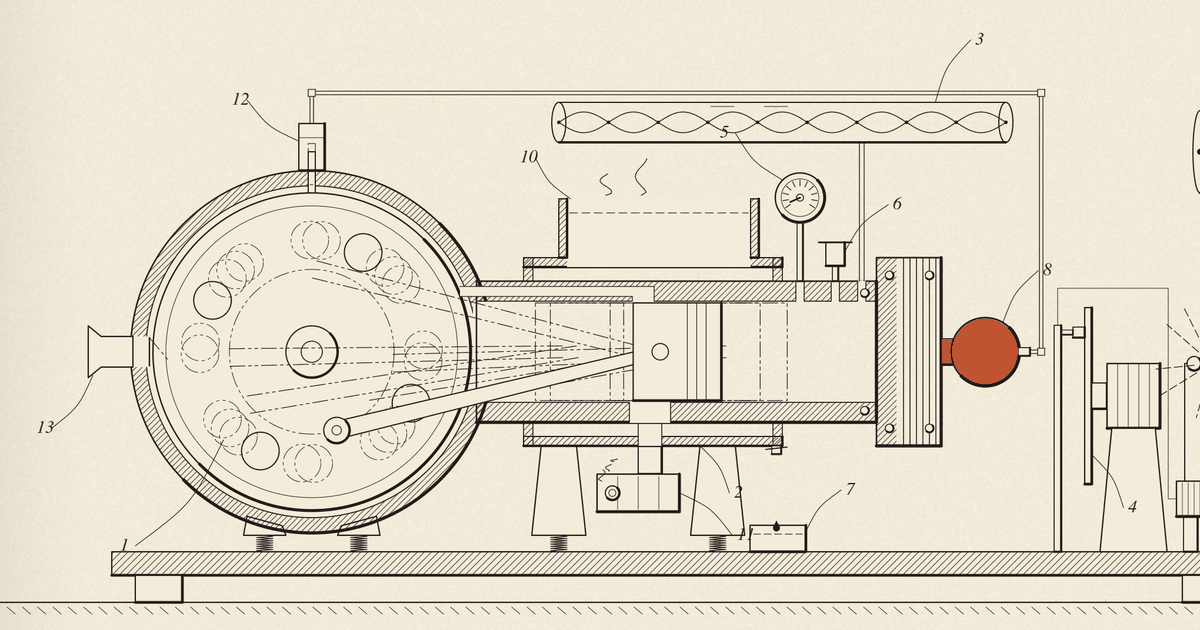
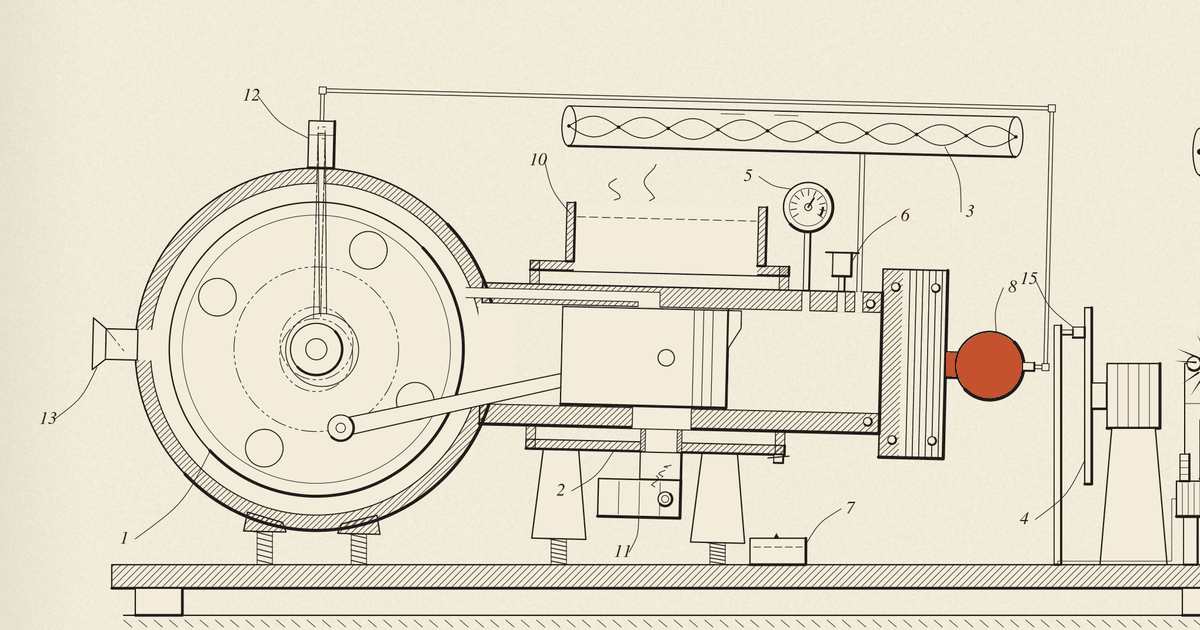
Opustek: v9 images and source zip; thump lead and gated-thump fix; exploded-view credit corrected

diff --git a/src/opustek/index.html b/src/opustek/index.html
@@ -144,7 +144,7 @@ th { font-weight: 400; font-variant: small-caps; letter-spacing: .05em; border-t
 <ul class="get">
   <li class="yt-link" hidden><a href="">The film <small>YouTube</small></a></li>
   <li><a href="engine-learning-to-sing.mp3" download>The track <small>MP3, 3:14, 4.7&nbsp;MB</small></a></li>
-  <li><a href="engine-learning-to-sing-src.zip" download>The source <small>ZIP, 48&nbsp;KB</small></a></li>
+  <li><a href="engine-learning-to-sing-src.zip" download>The source <small>ZIP, 56&nbsp;KB</small></a></li>
   <li><a href="sheet.jpg">The drawing <small>JPG, 3200&nbsp;px</small></a></li>
 </ul>
 <script>
@@ -344,15 +344,15 @@ requestAnimationFrame(draw);
 
 <h2>The film</h2>
 
-<p>Of the looks proposed for a video, Mark chose an 1890s engineering drawing: dark ink on aged paper, section hatching, numbered parts. The exploded view at the end was his idea. It is drawn frame by frame with pycairo, and every motion comes from the same score as the sound. Overnight, three reviewer agents (a technical draftsman, an engineer-physicist and a music-video editor) went over a first version in two rounds. The engineer found the chopper's disc drawn half a sector out of phase with the sound; Claude's own check had passed it, because it compared the drawn beam with the audio and never looked at the blade. They also caught a head hotter than molten cast iron, a drop falling backwards in time, and plumbing that could not drain. In the morning Mark spotted that the connecting rod stretched when the engine came apart, and then asked for more: a real engine making that sound would be running at the drone's own speed, and the music's gate could be a stroboscope.</p>
+<p>Of the looks proposed for a video, Mark chose an 1890s engineering drawing: dark ink on aged paper, section hatching, numbered parts. The exploded view at the end grew from an aside of his: my mention of exploded-view drawings reminded him of a fan-made music video animated from them. It is drawn frame by frame with pycairo, and every motion comes from the same score as the sound. Overnight, three reviewer agents (a technical draftsman, an engineer-physicist and a music-video editor) went over a first version in two rounds. The engineer found the chopper's disc drawn half a sector out of phase with the sound; Claude's own check had passed it, because it compared the drawn beam with the audio and never looked at the blade. They also caught a head hotter than molten cast iron, a drop falling backwards in time, and plumbing that could not drain. In the morning Mark spotted that the connecting rod stretched when the engine came apart, and then asked for more: a real engine making that sound would be running at the drone's own speed, and the music's gate could be a stroboscope.</p>
 
-<p>So the engine became a two-stroke whose crank turns at the note, a blur to any camera, drawn as five phantom exposures to a frame; and each opening of the gate fires a spark that freezes it, which Mark then asked to strike in at full strength and fade, with the phantoms coming back as it goes, mixed as light mixes rather than as screen values. A second round of the three reviewers then found a piston too short to seal its own exhaust port, a coil that would have sparked on the wrong half of its cycle, a fuel cam that would have thrown its follower at 20,000&nbsp;g, numerals sitting on the wrong parts, and engine mounts that rocked visibly only when the engine started from rest; all fixed, and the piston's seal and the numerals' places now have checks of their own. A real strobe would flash the whole screen 8 to 16 times a second, which is a seizure risk (WCAG allows three flashes a second over a large area), so the freeze is drawn in ink, not light, and a check reads every frame of the film for flashing. Its first version counted the engine's rocking as flashing, until the check learned that lines moving across the paper are not an area changing brightness.</p>
+<p>So the engine became a two-stroke whose crank turns at the note, a blur to any camera, drawn as five phantom exposures to a frame; and each opening of the gate fires a spark that freezes it, which Mark then asked to strike in at full strength and fade, with the phantoms coming back as it goes, mixed as light mixes rather than as screen values. A second round of the three reviewers then found a piston too short to seal its own exhaust port, a coil that would have sparked on the wrong half of its cycle, a fuel cam that would have thrown its follower at 20,000&nbsp;g, numerals sitting on the wrong parts, and engine mounts that rocked visibly only when the engine started from rest; all fixed, and the piston's seal and the numerals' places now have checks of their own. A real strobe would flash the whole screen 8 to 16 times a second, which is a seizure risk (WCAG allows three flashes a second over a large area), so the freeze is drawn in ink, not light, and a check reads every frame of the film for flashing. Its first version counted the engine's rocking as flashing, until the check learned that lines moving across the paper are not an area changing brightness. Watching the result, Mark felt the freezes break the rocking's rhythm, though every check passed: the thumps had been scaled by the engine's sound after the gate, so in the strobe passages they all but stopped. They now follow the engine's drive, which the gate doesn't touch.</p>
 
 <table>
   <tr><th>Physics, done properly</th><th>Licence, taken knowingly</th></tr>
   <tr><td>A two-stroke fires once a turn, so its note is its speed: the crank follows the bass note, 46 to 123 turns a second (2,800–7,400&nbsp;rpm), with a light engine's lag, never faster than its torque allows (at most 350 turns a second, per second) and no harder down than it coasts.</td><td>Hot-bulb engines ran at hundreds of rpm, not thousands, and the glides would need a racing two-stroke's torque. Mean piston speed reaches 20.7&nbsp;m/s, a racing figure. On fast down-glides the crank's speed falls behind the heard note, for a moment by as much as 35 turns a second.</td></tr>
   <tr><td>At the drawing's scale (0.3&nbsp;mm a unit) it is a 52&nbsp;mm-bore single with an 84&nbsp;mm stroke and a 150&nbsp;mm steel flywheel, whose rim then runs at up to 58&nbsp;m/s, which forged steel survives. (The first film's 1.2&nbsp;m cast-iron wheel would have burst at that rate of turning.) The ports open in the right order: exhaust at 95° after top dead centre, transfer at 123°; the intake flap stays shut while the transfer port is open.</td><td>The phantoms are the draftsman's device for a blur, five to a frame, after Marey's chronophotographs; the spark is the one true exposure. The freeze fading over the following frames is a choice of how to draw an afterimage.</td></tr>
-  <tr><td>A Leyden jar's spark lasts about a microsecond, so it freezes the crank at its true angle, as in Mach's spark photographs of the 1880s. The frozen positions come from the computed crank angle, so they jump about, or creep when the note nears a multiple of the flash rate. The coil fires on the break of its primary, as an induction coil does.</td><td>The sparks are fired by the music's gate. The bucking on each kick is the film's: the kick is taken as the engine's heavy stroke. Its size is chosen for the screen, at most 2.5°; only its response to changes of speed is the torque's.</td></tr>
+  <tr><td>A Leyden jar's spark lasts about a microsecond, so it freezes the crank at its true angle, as in Mach's spark photographs of the 1880s. The frozen positions come from the computed crank angle, so they jump about, or creep when the note nears a multiple of the flash rate. The coil fires on the break of its primary, as an induction coil does.</td><td>The sparks are fired by the music's gate. The bucking on each kick is the film's: the kick is taken as the engine's heavy stroke. Its size is chosen for the screen, at most 2.5°, and it peaks 30&nbsp;ms before the kick, which Mark picked blind from five clips (in studies of audiovisual timing, a sound usually seems simultaneous with a sight when it arrives a little after it); only its response to changes of speed is the torque's.</td></tr>
   <tr><td>The bulb's hue is Planck's law through the CIE 1931 colour-matching functions (Wyman's 2013 fit), at a temperature from a cooling law: radiation and convection to a 300&nbsp;K room.</td><td>Those hues lie outside a screen's gamut and are clipped to it, and the brightness scale is ours. The heat put in follows the engine's loudness, and the cooling runs some tens of times faster than a real bulb's, so you can watch it. The peak, 1150&nbsp;K, is <span class="heat swatch"></span>&#8202;cherry red, brighter than the dull red a hot bulb is started at.</td></tr>
   <tr><td>The crank, rod and piston move as a true slider-crank. Each drop falls from rest at 9.81&nbsp;m/s², at the drawing's scale (41&nbsp;mm in 91&nbsp;ms).</td><td>A fixed tube cannot resonate at every harmonic of every note, and the gauge reads the engine's loudness, not a pressure. Commutator slots faster than 12 a second are drawn as rings, and the resonator's wave crests on the beat. The engine starts itself on the drop, in an eighth of a second, which an engine at rest can't do.</td></tr>
 </table>
